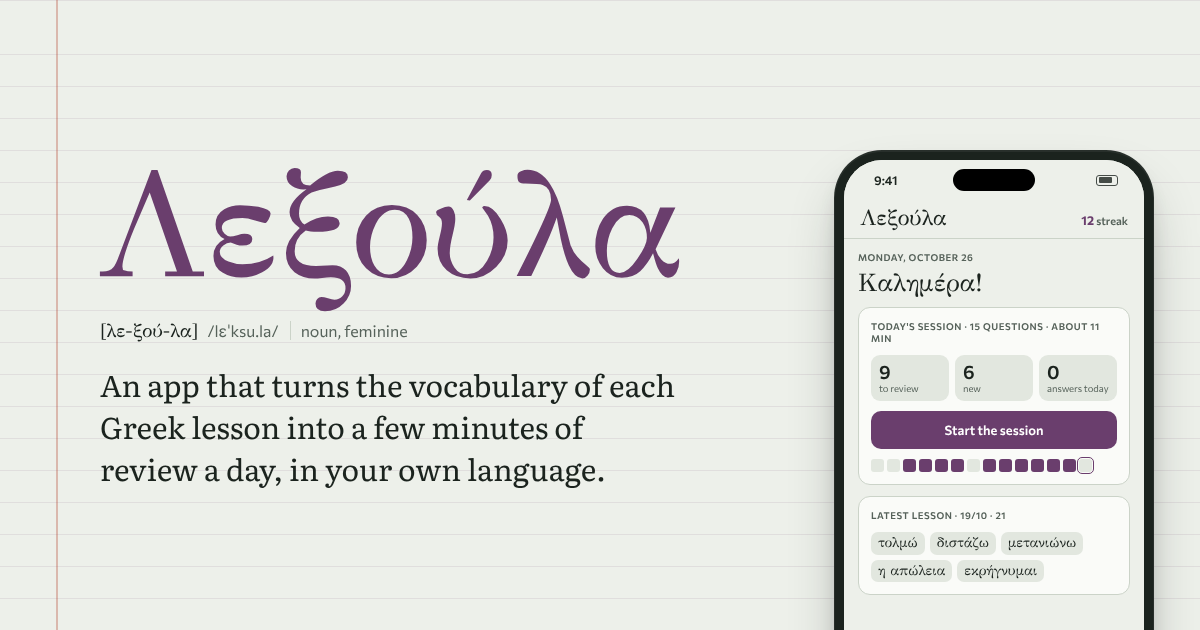
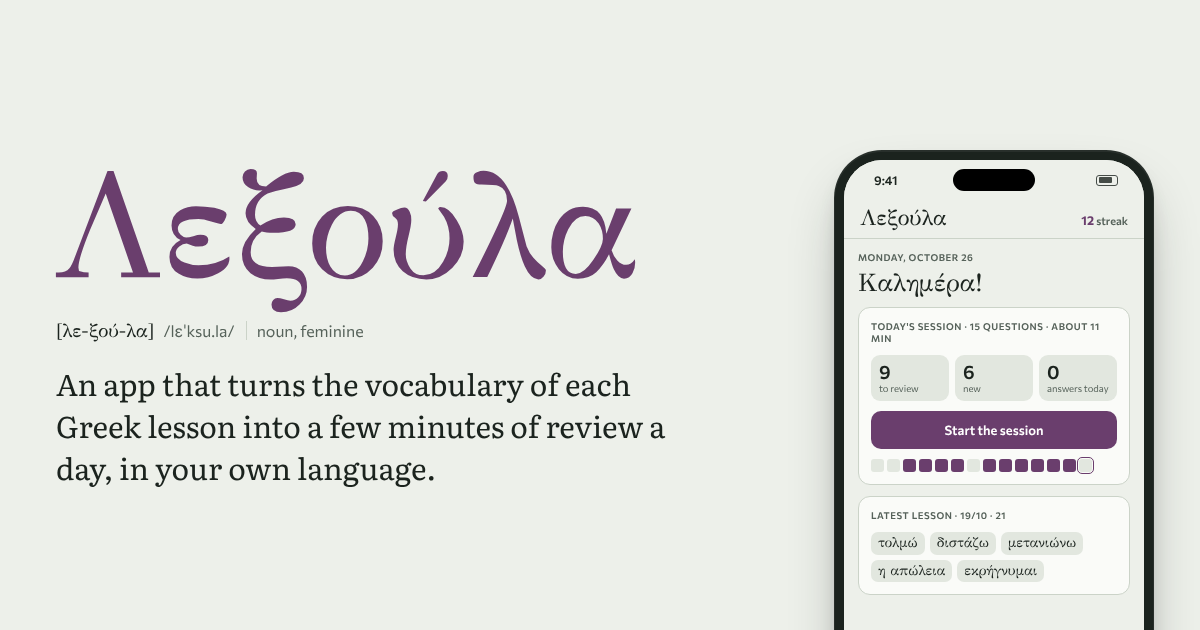
Add Greek showcase page and drop the ruled paper
Greek version at /el/ (demo shows the English app interface), plain hero
background, tighter header on small phones, refreshed share image, and a
ready-to-copy Pages workflow for the lexoula-www repository.

Claude-Session: https://claude.ai/code/session_01NhFPU5KJcWiVkqTYMTuzvJ

Changed region(s): [[0.0308, 0.2714, 0.5858, 0.5429], [0.0308, 0.6032, 0.555, 0.6937], [0.0308, 0.7238, 0.4933, 0.7841]]

diff --git a/site/site.css b/site/site.css
@@ -1,12 +1,11 @@
 /* Λεξούλα — vitrine lexoula.gr. Même carnet que l'appli : papier vert olive, encre violine,
-   GFS Didot pour les titres, Commissioner pour le texte. L'accueil est une entrée de dictionnaire
-   sur papier réglé ; la seule animation est la démo dans le téléphone. */
+   GFS Didot pour les titres, Commissioner pour le texte. L'accueil est une entrée de dictionnaire ;
+   la seule animation est la démo dans le téléphone. */
 :root {
   --bg: #EDF0EA; --surface: #FAFBF8; --surface-2: #E2E7DF; --ink: #1B231E; --muted: #56625A; --line: #CBD3C8;
   --accent: #6A3E6D; --accent-ink: #FFFFFF; --accent-soft: #EADFEA;
   --ok: #2C7647; --ok-soft: #D9EEDF; --star: #B27412; --star-soft: #F6EAD0;
   --lv-new: #B9C2B6; --lv-weak: #D08A3E; --lv-mid: #8B6A9C; --lv-ok: #3E8A5A;
-  --rule: rgba(106, 62, 109, .10); --margin: rgba(176, 64, 45, .32);
   --frame: #1B231E;
   --f-display: "GFS Didot", "Literata", Georgia, serif;
   --f-read: "Literata", Georgia, serif;
@@ -20,7 +19,6 @@
     --accent: #C9A3CC; --accent-ink: #1C1320; --accent-soft: #32253A;
     --ok: #6CC08A; --ok-soft: #1C3124; --star: #E3B341; --star-soft: #3A2F16;
     --lv-new: #4A544C; --lv-weak: #D6955A; --lv-mid: #A889B8; --lv-ok: #62B47F;
-    --rule: rgba(201, 163, 204, .08); --margin: rgba(229, 138, 117, .28);
     --frame: #050706;
     color-scheme: dark;
   }
@@ -72,30 +70,29 @@ p, li, dd { text-wrap: pretty; }
 .lang a:hover { background: var(--surface-2); }
 .lang a[aria-current] { color: var(--accent); font-weight: 600; }
 @media (max-width: 420px) { .lang summary span { display: none; } .mark { font-size: 25px; } .btn-s { padding: 0 13px; font-size: 14px; } }
+@media (max-width: 370px) { .bar .in { gap: 6px; } .mark { font-size: 22px; } .lang summary { padding: 0 6px; } .btn-s { padding: 0 10px; font-size: 13px; } }
+.btn-s { white-space: nowrap; }
 
-/* accueil : entrée de dictionnaire sur papier réglé */
-.hero { background-image: repeating-linear-gradient(to bottom, transparent 0 31px, var(--rule) 31px 32px);
-  background-position: 0 23px; border-bottom: 1px solid var(--line); overflow: hidden; }
+/* accueil : entrée de dictionnaire */
+.hero { border-bottom: 1px solid var(--line); overflow: hidden; }
 .hero-in { position: relative; display: grid; grid-template-columns: minmax(0, 1fr) auto; gap: 48px 72px; align-items: center; padding-block: 64px 72px; }
-.entry { position: relative; padding-left: 36px; max-width: 620px; }
-.hero-in::before { content: ""; position: absolute; left: var(--gut); top: 0; bottom: 0; width: 2px; background: var(--margin); }
+.entry { position: relative; max-width: 620px; }
 .word { font: 400 clamp(72px, 12vw, 136px)/.95 var(--f-display); color: var(--accent); letter-spacing: -.005em; margin-left: -4px; }
-.pron { margin-top: 18px; color: var(--muted); font-size: 16px; line-height: 32px; }
+.pron { margin-top: 18px; color: var(--muted); font-size: 16px; line-height: 1.6; }
 .pron span { font-family: var(--f-display); font-size: 19px; color: var(--ink); margin-right: 6px; }
 .pron i { font-style: normal; margin-left: 8px; padding-left: 10px; border-left: 1px solid var(--line); }
 .senses { margin-top: 16px; padding-left: 0; list-style: none; counter-reset: s; display: flex; flex-direction: column; gap: 10px; }
-.senses li { counter-increment: s; position: relative; padding-left: 30px; font: 400 18px/32px var(--f-read); color: var(--muted); }
-.senses li::before { content: counter(s) "."; position: absolute; left: 0; top: 0; font: 700 17px/32px var(--f-ui); color: var(--accent); }
-.senses .main-sense { font-size: 22px; line-height: 32px; color: var(--ink); }
+.senses li { counter-increment: s; position: relative; padding-left: 30px; font: 400 18px/1.6 var(--f-read); color: var(--muted); }
+.senses li::before { content: counter(s) "."; position: absolute; left: 0; top: 0; font: 700 17px/1.7 var(--f-ui); color: var(--accent); }
+.senses .main-sense { font-size: 22px; line-height: 1.5; color: var(--ink); }
 .ctas { display: flex; flex-wrap: wrap; gap: 12px; margin-top: 32px; }
 .note { margin-top: 18px; font-size: 14.5px; color: var(--muted); max-width: 48ch; }
 @media (max-width: 900px) {
   .hero-in { grid-template-columns: 1fr; padding-block: 40px 56px; justify-items: stretch; }
-  .entry { padding-left: 22px; }
   .demo { justify-self: center; }
   .senses .main-sense { font-size: 20px; }
 }
-@media (max-width: 480px) { .ctas .btn { flex: 1 1 100%; } .entry { padding-left: 18px; } .senses li { padding-left: 24px; } }
+@media (max-width: 480px) { .ctas .btn { flex: 1 1 100%; } .senses li { padding-left: 24px; } }
 
 /* démo : téléphone */
 .demo { display: flex; flex-direction: column; align-items: center; gap: 18px; width: 300px; max-width: 100%; }

diff --git a/docs/ETAT.md b/docs/ETAT.md
@@ -25,14 +25,14 @@ Objectif : mise en service pour le groupe Ομαδικό Β2 début novembre 202
 | Espace professeur | Classes, invitations (lien, QR, code), listes, élèves ; renommer et déplacer ses élèves entre ses classes |
 | Politique de confidentialité | `privacy.html`, en anglais et en grec |
 | Accès sur invitation | Un compte sans classe ne voit que l'écran du code (migration `20261025000000_invite_only.sql`) |
-| Vitrine `lexoula.gr` | Construite (`site/`, 8 langues) ; aperçu sur `flepr.github.io/lexoula/site/` |
+| Vitrine `lexoula.gr` | Construite (`site/`, 9 langues dont le grec) ; aperçu sur `flepr.github.io/lexoula/site/` |
 
 ## Bloqué ou en attente
 | Sujet | Bloqué par | Prochaine action |
 |---|---|---|
 | Domaine `lexoula.gr` | Registre .gr (délai de 6 jours) | Actif le 29/10/2026 selon Gandi ; enchaîner DNS, Brevo, modèles d'e-mail le jour même |
 | DNS : `app` → appli, `lexoula.gr` et `www` → vitrine, `contact@lexoula.gr` → me.com | Domaine | Voir `CONFIGURATION.md` § 2-3 |
-| Publication de la vitrine sur `lexoula.gr` | Dépôt `flepr/lexoula-www` à créer par Fabien | Créer le dépôt vide et le rattacher à Claude ; Claude y pousse `site/` et un workflow Pages ; domaine `lexoula.gr` |
+| Publication de la vitrine sur `lexoula.gr` | Domaine (29/10) | Étapes dans `CONFIGURATION.md` (§ Vitrine) : dépôt `flepr/lexoula-www`, workflow `site/www-pages.yml`, domaine `lexoula.gr` |
 | Brevo (SMTP) puis modèles d'e-mail avec `{{ .Token }}` | Domaine (DNS) | Les modèles ne sont modifiables qu'après le SMTP ; ensuite passer `EMAIL_MODE` de `"off"` à `"code"` dans `src/views/login.js` |
 | Vérification de la marque Google (« Connectez-vous à Λεξούλα ») | Domaine | Search Console (TXT), liens Branding vers `app.lexoula.gr`, demande de validation |
 | Supabase URL Configuration définitive (`app.lexoula.gr`) | Domaine | À revoir avec le DNS |
@@ -66,6 +66,9 @@ Objectif : mise en service pour le groupe Ομαδικό Β2 début novembre 202
 - Domaine `lexoula.gr` : renouvellement annuel chez Gandi.
 
 ## Journal
+- **26/10/2026 (suite)** — Vitrine en grec (`/el/`, démo en anglais faute d'interface grecque), papier réglé
+  retiré de l'accueil, en-tête resserré sur les petits iPhone, nouvelle image de partage. Workflow prêt pour le
+  dépôt `flepr/lexoula-www` (`site/www-pages.yml`) ; publication reportée au 29/10.
 - **26/10/2026** — Coûts de l'IA : traitement par lots (API batch, −50 %) par défaut, avec filet de sécurité
   à 2 h (annulation, résultats déjà prêts gardés, reste en direct). Cache des consignes automatique selon le
   nombre de requêtes. Consommation de chaque appel enregistrée (`ai_usage`). À l'import, estimation du coût

diff --git a/docs/DECISIONS.md b/docs/DECISIONS.md
@@ -42,6 +42,11 @@ remplacée reste visible, barrée ou suivie de « remplacée le … ».
 - 25/10/2026 — Appli réservée aux élèves invités : un compte sans classe (ni professeur ni admin) ne voit que
   l'écran du code de classe et ne peut plus ajouter de mots personnels (donc aucun appel à l'IA).
   Les élèves d'une classe gardent la possibilité d'ajouter leurs propres mots.
+- 26/10/2026 — Vitrine aussi en grec (9 langues : celles de l'appli + grec). La démo de la version grecque
+  montre l'appli en anglais, puisque l'appli n'a pas d'interface grecque. Mention « développée avec Claude »
+  conservée dans les coulisses. Pas de papier réglé en fond (les lignes ne tombaient pas sous le texte).
+- 26/10/2026 — Publication de la vitrine sur `lexoula.gr` remise à l'activation du domaine (29/10/2026) ;
+  d'ici là, l'aperçu `flepr.github.io/lexoula/site/` suffit.
 
 ## Pédagogie (préférences de Fabien, à suivre pour les exercices)
 - Surtout des QCM ; quelques exercices d'écriture, mais pas trop.
@@ -92,7 +97,9 @@ remplacée reste visible, barrée ou suivie de « remplacée le … ».
   de l'état dans le projet Claude « Λεξούλα ».
 - 25/10/2026 — Vitrine : page statique sans dépendance (`site/`), polices auto-hébergées (aucune requête
   vers Google), source dans ce dépôt, publication sur un dépôt dédié `flepr/lexoula-www` (une seule
-  adresse personnalisée par dépôt GitHub Pages).
+  adresse personnalisée par dépôt GitHub Pages) qui ne contient qu'un workflow (`site/www-pages.yml`) : il
+  récupère ce dépôt public et construit la vitrine, sans secret ni jeton à renouveler ; relancé à la main après
+  une modification de `site/`.
 - 26/10/2026 — Coûts de l'IA : on garde Sonnet 5.5 et les 8 langues (la fiabilité des traductions prime).
   Les tâches passent par l'API batch d'Anthropic (−50 %, prêt en général en moins d'une heure) ; filet de
   sécurité : un lot non terminé au bout de 2 h est annulé, ce qui est déjà traité est gardé et le reste

diff --git a/docs/CONFIGURATION.md b/docs/CONFIGURATION.md
@@ -45,6 +45,19 @@ Puis, une fois le DNS en place (§ 3) : **Custom domain** = `app.lexoula.gr` →
 puis **Enforce HTTPS**). Plus de redirection web Gandi vers l'appli (décision du 25/10/2026).
 Les enregistrements MX de Gandi (pour `contact@lexoula.gr`) ne sont pas touchés.
 
+### Vitrine : dépôt `flepr/lexoula-www` (le jour où le domaine est actif)
+1. github.com → **+ → New repository** : propriétaire `flepr`, nom `lexoula-www`, **Public**,
+   sans README, sans .gitignore, sans licence → **Create repository**.
+2. Donner l'accès à Claude dans une conversation du projet « Λεξούλα » : Claude y dépose
+   `.github/workflows/pages.yml` (copie de `site/www-pages.yml`).
+3. `lexoula-www` → **Settings → Pages → Source : GitHub Actions**.
+4. Gandi : enregistrements DNS du tableau ci-dessus (`@` et `www`).
+5. `lexoula-www` → **Settings → Pages → Custom domain** = `lexoula.gr` → **Save**, attendre la coche verte,
+   puis cocher **Enforce HTTPS**.
+6. Conseillé, une seule fois : github.com → avatar → **Settings → Pages → Add a domain** `lexoula.gr`,
+   ajouter chez Gandi l'enregistrement TXT indiqué, puis **Verify** (empêche quiconque d'utiliser le domaine
+   sur un autre compte GitHub).
+
 ## 4. Supabase — connexion
 
 **Authentication → URL Configuration**
